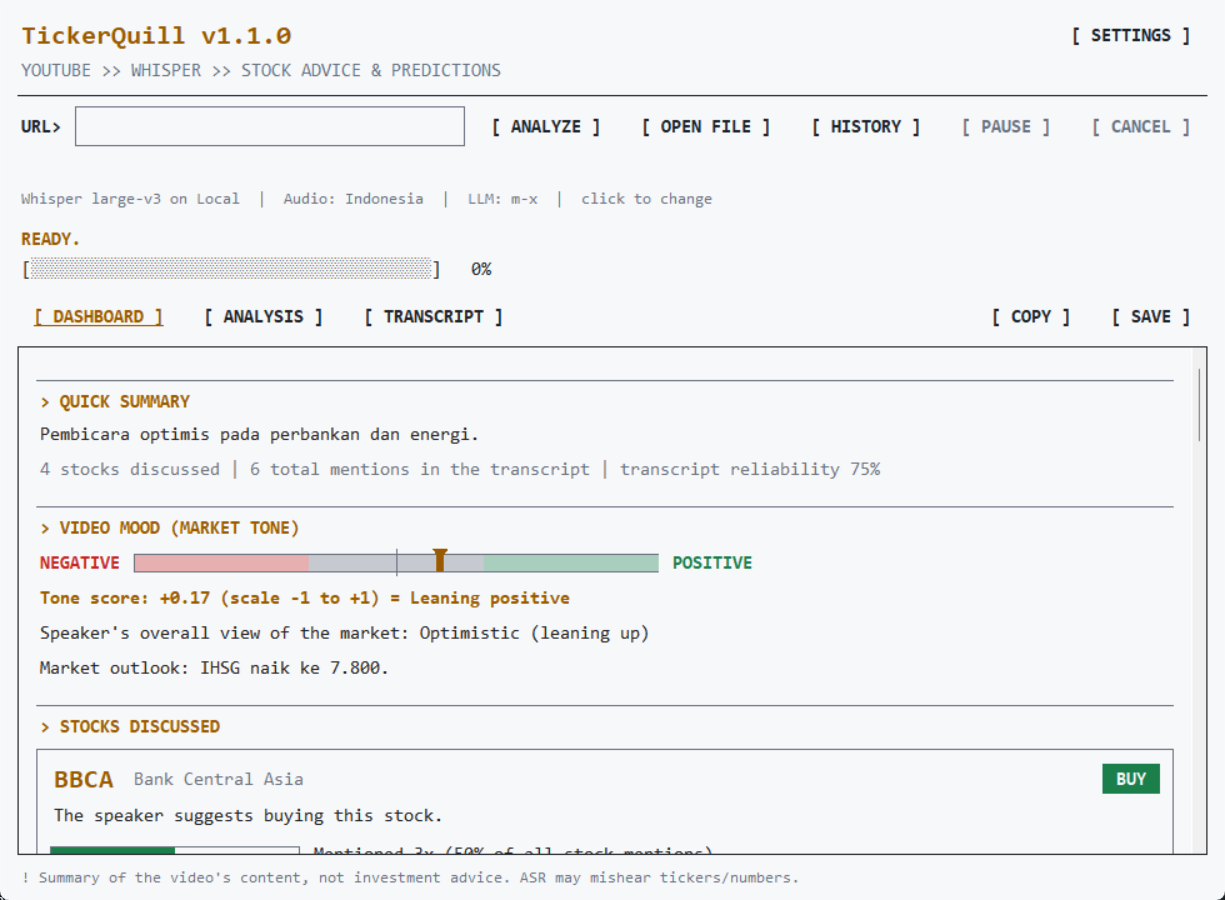
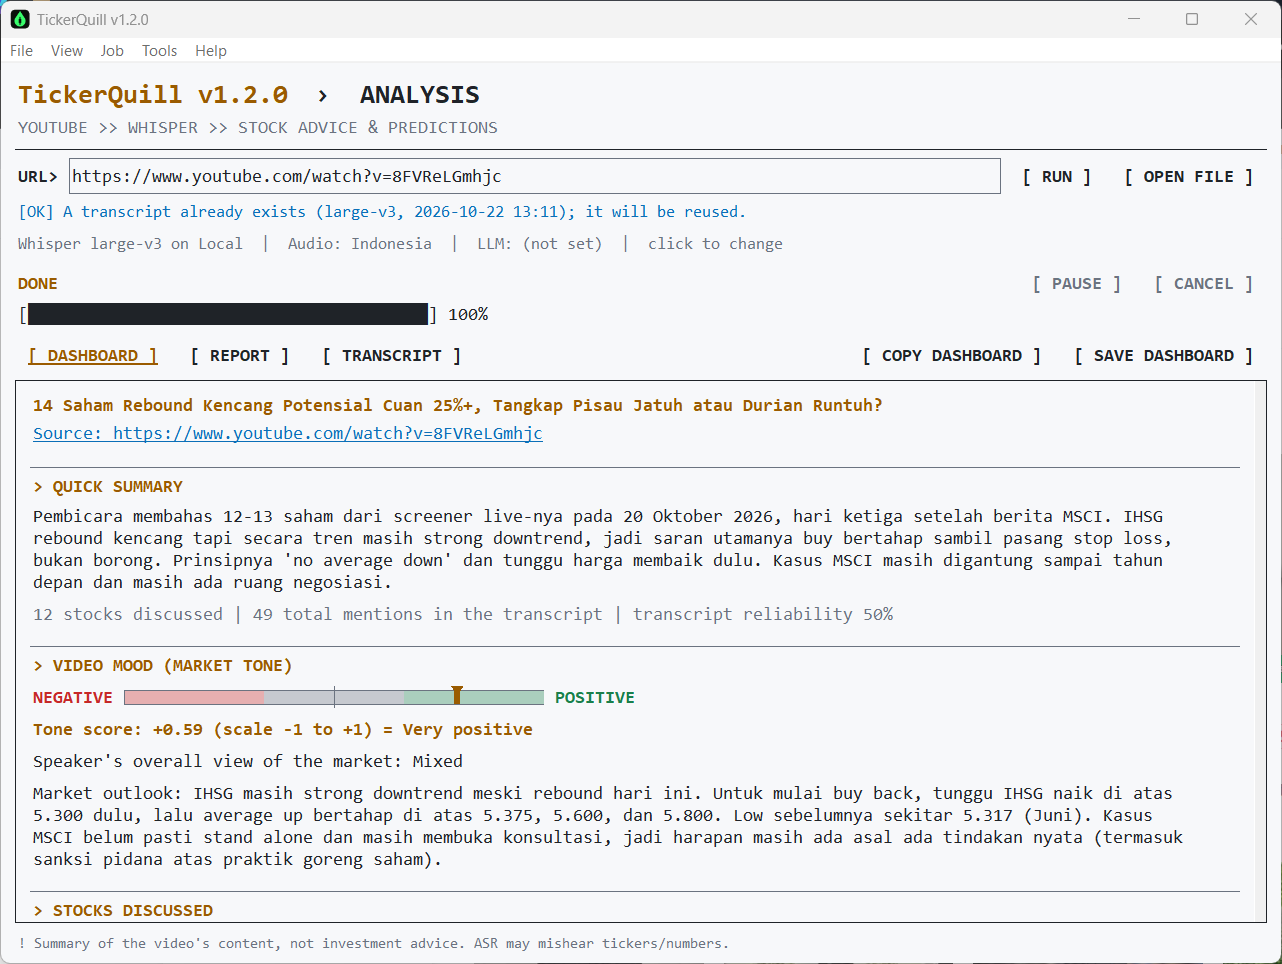
Refresh the screenshots for 1.2
New window with the icon and menu bar for the dashboard, stock cards,
light theme and Settings; new shots of Market Overview (all dates and one
stock across videos) and the stock price window. Taken from a scratch
data folder without API keys or Colab tokens.

diff --git a/docs/user-guide.md b/docs/user-guide.md
@@ -132,6 +132,8 @@ The **Market Overview** page (Indonesian: **Ringkasan Pasar**; **View > Market O
 | **Reliability** | How many videos marked the stock as doubtful, and the average speaker confidence |
 | **Reason per video** | Each video's reason, by date |
 
+![Market Overview: one stock across five videos](images/market-overview-stock-retro-green.png)
+
 **AI summary.** **[ AI SUMMARY ]** sends only the extracted data shown on the page (no transcripts) to your LLM and asks for 4–8 points: what the videos agree on, where they differ, how views changed and what to re-check. The result is saved in `analyses/ai/`, so it is not requested again. When a newer analysis for that stock or date arrives, the old summary is shown with a note and **[ UPDATE AI SUMMARY ]**. The button is disabled until an LLM API key and model are set. Like everything else here, it summarises what was said; it is not investment advice.
 
 ## 6c. Stock price window
@@ -150,6 +152,8 @@ Click a **ticker on a Dashboard stock card**, or **[ STOCK PRICE ]** on a stock 
   - It refreshes every 60 seconds during IDX hours. Opening the chart again for the same stock replaces the window; closing the app closes it.
   - It needs `pywebview` and the Edge WebView2 Runtime (see the [troubleshooting](troubleshooting.md#settings-and-files) page if it does not open).
 - **[ TRADINGVIEW ]** opens the same stock on TradingView.com (`IDX:<TICKER>`) in your browser, with its full chart tools. How current its data is depends on your TradingView account. The same button is on each stock in Market Overview.
+
+![Stock price window](images/price-window-retro-green.png)
 
 Prices are shown for comparison with what the speaker said. They are delayed, can be wrong, and are not investment advice.
 

diff --git a/README.md b/README.md
@@ -42,12 +42,16 @@ Turn a YouTube stock-market video into a structured, investor-friendly summary: 
 - Per date: the stocks several videos discussed that day, side by side. Overall: most-discussed stocks and market tone per date.
 - Optional AI summary per stock or per date, made from the extracted data only and saved.
 
+![Market Overview](docs/images/market-overview-retro-green.png)
+
 **Stock price window**
 - Click a ticker (Dashboard card or Market Overview) for its price, change, day range and volume, and a 1D–1Y chart with the videos' buy, target and loss-limit levels drawn in.
 - **Since the video**: the move from each video's date to now, and whether its target or loss limit has been reached.
 - Data from Yahoo Finance (unofficial, IDX delayed about 15 minutes), fetched only while the window is open; refreshes every 60 s during IDX hours.
 - **[ TRADINGVIEW ]** opens the stock on TradingView.com (`IDX:<TICKER>`) for its full charting tools.
 - **[ CANDLE CHART ]** opens a TradingView-style candlestick window (TradingView Lightweight Charts™) with volume, the videos' levels as price lines and each video's stance marked on its date.
+
+![Stock price window](docs/images/price-window-retro-green.png)
 
 **Settings and themes**
 - A tabbed **Settings** dialog for language, theme, Whisper engine/model/audio language, Colab server and LLM endpoint/key/model; changes apply immediately.
